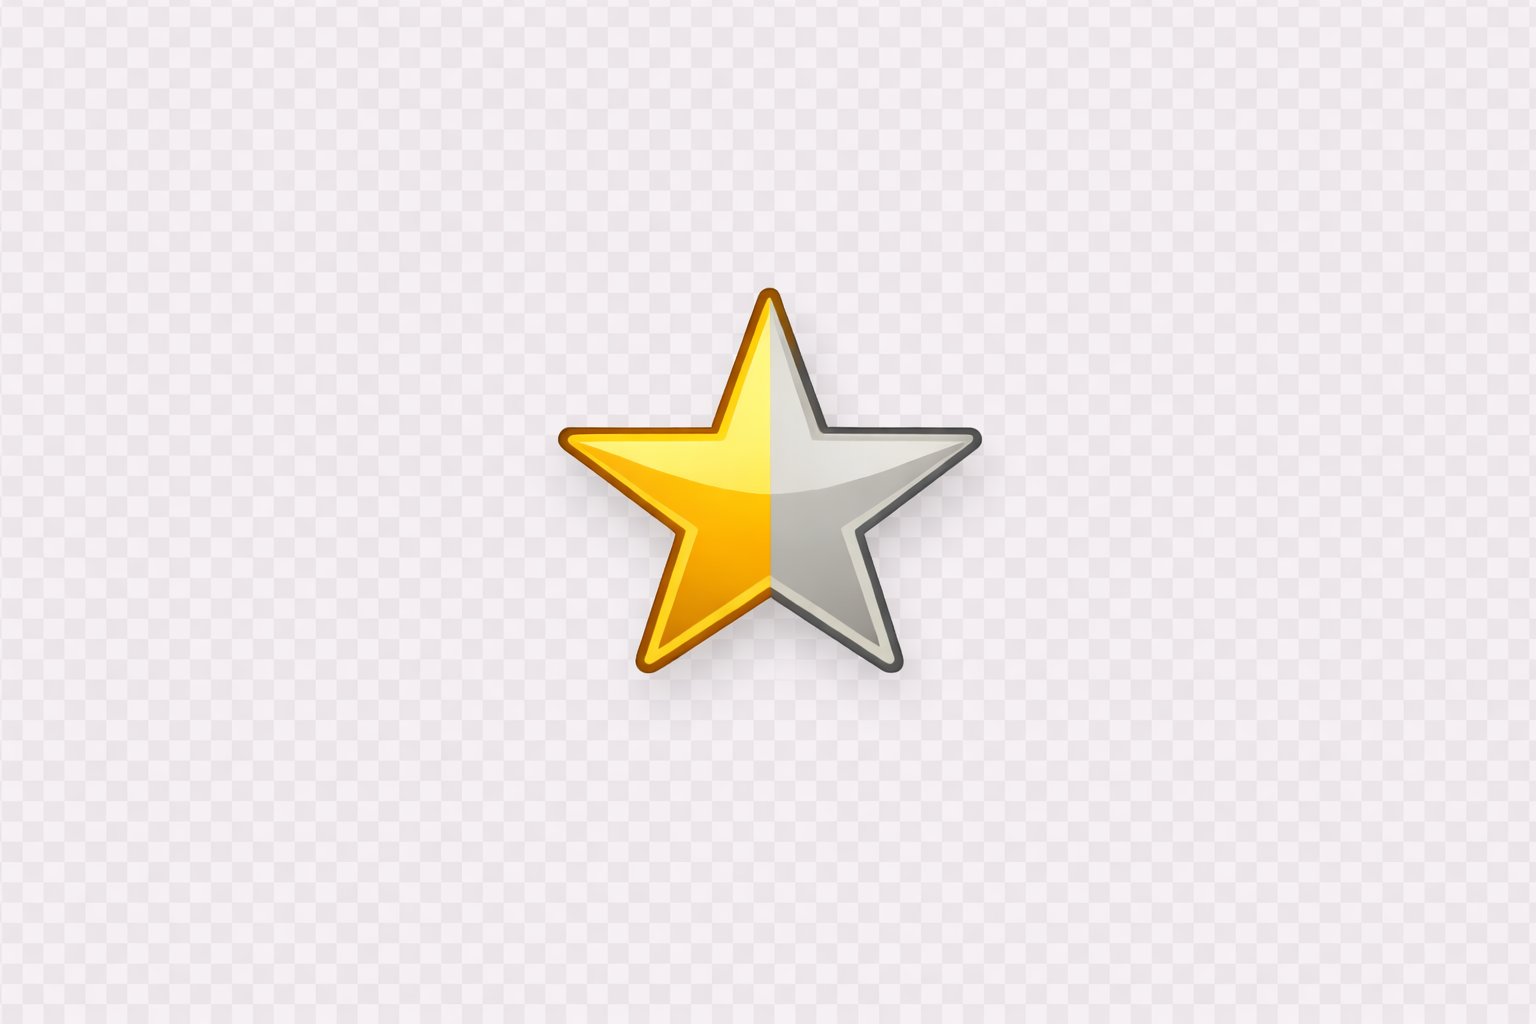
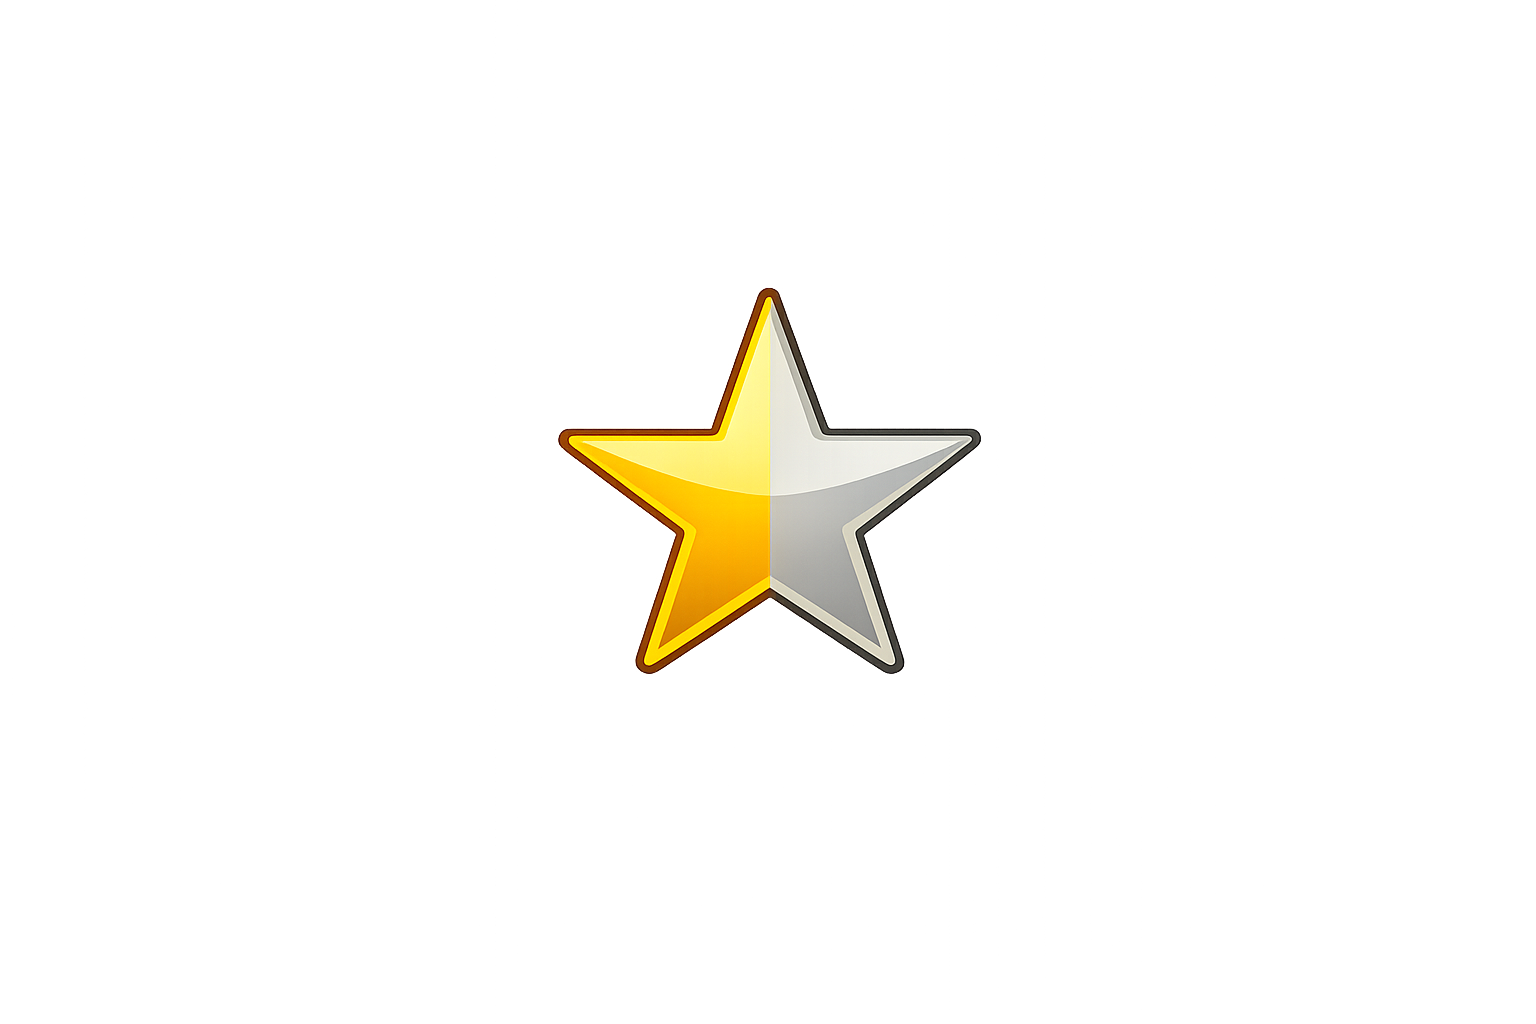
HTML etoile image fonctionne

diff --git a/avis.html b/avis.html
@@ -7,68 +7,144 @@
     <link rel="stylesheet" href="styles/desktop.css" media="screen and (min-width: 768px)"> 
     <link rel="stylesheet" href="styles/mobile.css" media="screen and (max-width: 767px)"> 
     <title>Covoitu-basque</title>
-<body>
-<body>
-
-<h2>Avis des trajets</h2>
-
-<fieldset>
-  <legend>Trajet : 12/06/2025 – Bayonne → Bordeaux</legend>
-
-  <p><strong>Conducteur :</strong> Paul D.</p>
-  <p><strong>Passager :</strong> Léa M.</p>
+</head>
+<form>
+  <label><strong>Avis des trajets</strong></label>
 
   <fieldset>
-    <legend>Avis du passager sur le conducteur</legend>
-    <p><strong>Note :</strong> ★★★★☆</p>
-    <p>Trajet agréable, conduite fluide et ponctuelle.</p>
+    <legend>Trajet 1 – Bayonne → Bordeaux</legend>
+
+    <p>Date : 12/06/2025</p>
+    <p>Durée : 2h30</p>
+    <p>Conducteur : Paul D.</p>
+    <p>Passager : Léa M.</p>
+
+    <fieldset>
+      <legend>Avis du passager sur le conducteur</legend>
+      <p>Note : ★★★★☆</p>
+      <p>Conducteur ponctuel, conduite agréable et sécurisée.</p>
+    </fieldset>
+
+    <fieldset>
+      <legend>Avis du conducteur sur le passager</legend>
+      <p>Note : ★★★★★</p>
+      <p>Passagère très respectueuse et à l’heure.</p>
+    </fieldset>
   </fieldset>
+
+  <br>
 
   <fieldset>
-    <legend>Avis du conducteur sur le passager</legend>
-    <p><strong>Note :</strong> ★★★★★</p>
-    <p>Passagère respectueuse et très ponctuelle.</p>
+    <legend>Trajet 2 – Biarritz → Toulouse</legend>
+
+    <p>Date : 18/04/2025</p>
+    <p>Durée : 3h00</p>
+    <p>Conducteur : Marie L.</p>
+    <p>Passager : Théo R.</p>
+
+    <fieldset>
+      <legend>Avis du passager sur le conducteur</legend>
+      <p>Note : ★★★☆☆</p>
+      <p>Trajet correct malgré un léger retard au départ.</p>
+    </fieldset>
+
+    <fieldset>
+      <legend>Avis du conducteur sur le passager</legend>
+      <p>Note : ★★★★☆</p>
+      <p>Passager sympathique et respectueux.</p>
+    </fieldset>
   </fieldset>
-</fieldset>
 
-<br>
-
-<fieldset>
-  <legend>Trajet : 18/04/2025 – Biarritz → Toulouse</legend>
-
-  <p><strong>Conducteur :</strong> Marie L.</p>
-  <p><strong>Passager :</strong> Théo R.</p>
+  <br>
 
   <fieldset>
-    <legend>Avis du passager sur le conducteur</legend>
-    <p><strong>Note :</strong> ★★★☆☆</p>
-    <p>Trajet correct, léger retard au départ.</p>
+    <legend>Trajet 3 – Saint-Jean-de-Luz → Pampelune</legend>
+
+    <p>Date : 02/04/2025</p>
+    <p>Durée : 1h45</p>
+    <p>Conducteur : Carlos M.</p>
+    <p>Passager : Emma S.</p>
+
+    <fieldset>
+      <legend>Avis du passager sur le conducteur</legend>
+      <p>Note : ★★★★★</p>
+      <p>Très bonne conduite, voiture propre et confortable.</p>
+    </fieldset>
+
+    <fieldset>
+      <legend>Avis du conducteur sur le passager</legend>
+      <p>Note : ★★★★★</p>
+      <p>Passagère idéale, très agréable durant le trajet.</p>
+    </fieldset>
   </fieldset>
+
+  <br>
 
   <fieldset>
-    <legend>Avis du conducteur sur le passager</legend>
-    <p><strong>Note :</strong> ★★★★☆</p>
-    <p>Passager sympathique et respectueux.</p>
+    <legend>Trajet 4 – Hendaye → San Sebastian</legend>
+
+    <p>Date : 20/02/2025</p>
+    <p>Durée : 45 min</p>
+    <p>Conducteur : Iker A.</p>
+    <p>Passager : Noé P.</p>
+
+    <fieldset>
+      <legend>Avis du passager sur le conducteur</legend>
+      <p>Note : ★★★★☆</p>
+      <p>Trajet rapide et agréable, bonne communication.</p>
+    </fieldset>
+
+    <fieldset>
+      <legend>Avis du conducteur sur le passager</legend>
+      <p>Note : ★★★☆☆</p>
+      <p>Passager correct mais arrivé légèrement en retard.</p>
+    </fieldset>
   </fieldset>
-</fieldset>
 
-<br>
-
-<fieldset>
-  <legend>Trajet : 02/04/2025 – Saint-Jean-de-Luz → Pampelune</legend>
-
-  <p><strong>Conducteur :</strong> Carlos M.</p>
-  <p><strong>Passager :</strong> Emma S.</p>
+  <br>
 
   <fieldset>
-    <legend>Avis du passager sur le conducteur</legend>
-    <p><strong>Note :</strong> ★★★★★</p>
-    <p>Conduite parfaite, voiture propre.</p>
+    <legend>Trajet 5 – Anglet → Pau</legend>
+
+    <p>Date : 05/03/2025</p>
+    <p>Durée : 1h30</p>
+    <p>Conducteur : Julien R.</p>
+    <p>Passager : Inès G.</p>
+
+    <fieldset>
+      <legend>Avis du passager sur le conducteur</legend>
+      <p>Note : ★★★☆☆</p>
+      <p>Trajet correct, ambiance calme.</p>
+    </fieldset>
+
+    <fieldset>
+      <legend>Avis du conducteur sur le passager</legend>
+      <p>Note : ★★★★☆</p>
+      <p>Passagère polie et respectueuse.</p>
+    </fieldset>
   </fieldset>
 
+  <br>
+
   <fieldset>
-    <legend>Avis du conducteur sur le passager</legend>
-    <p><strong>Note :</strong> ★★★★★</p>
-    <p>Passagère idéale, très agréable.</p>
+    <legend>Trajet 6 – Bayonne → Dax</legend>
+
+    <p>Date : 10/03/2025</p>
+    <p>Durée : 1h00</p>
+    <p>Conducteur : Sophie B.</p>
+    <p>Passager : Yanis K.</p>
+
+    <fieldset>
+      <legend>Avis du passager sur le conducteur</legend>
+      <p>Note : ★★★★★</p>
+      <p>Conduite parfaite, trajet très agréable.</p>
+    </fieldset>
+
+    <fieldset>
+      <legend>Avis du conducteur sur le passager</legend>
+      <p>Note : ★★★★★</p>
+      <p>Passager ponctuel et très respectueux.</p>
+    </fieldset>
   </fieldset>
-</fieldset>
+
+</form>

diff --git a/Profil.html b/Profil.html
@@ -24,10 +24,7 @@
 <button onclick="window.location.href='informations.html'">
     Informations personnelles
 </button>
-<button onclick="window.location.href='Avisbouton.html'">
-    Avis
-</button>
-
+<br><br>
 <form>
     <label>Trajets</label> 
         <select id="topic">
@@ -36,15 +33,21 @@
             <option>02/04/2025  Saint-Jean-de-Luz -> Pampelune - ★★★★★</option>
             <option>20/02/2025  Hendaye -> San Sebastian - ★★★★☆</option>
         </select>
-</form>
+</form> <br>
     <button onclick="window.location.href='Voir plus.html'">Voir plus    
         </button>    
+<br><br><br>
     <div id ="notation">
-        <img src="" alt="etoile de notation pleine" height="100" title="etoile de notation pleine">
-        <img src="" alt="etoile de notation pleine" height="100" title="etoile de notation pleine">
-        <img src="" alt="etoile de notation pleine" height="100" title="etoile de notation pleine">
-        <img src="" alt="etoile de notation pleine" height="100" title="etoile de notation pleine">
-        <img src="" alt="etoile de notation 1/2" height="100" title="etoile de notation demi pleine">
+        <img src="media/pictures/etoiles_pleines.png" height="30" alt="etoile de notation pleine">
+        <img src="media/pictures/etoiles_pleines.png"  height="30" alt="etoile de notation pleine">
+        <img src="media/pictures/etoiles_pleines.png"  height="30" alt="etoile de notation pleine">
+        <img src="media/pictures/etoiles_pleines.png"  height="30" alt="etoile de notation pleine">
+        <img src="media/pictures/etoiles_moitie.png" height="30" alt="etoile de notation demi pleine">
     </div>
 </body>
+<button onclick="window.location.href='avis.html'">
+    Avis
+</button>
+
+
 </html>
